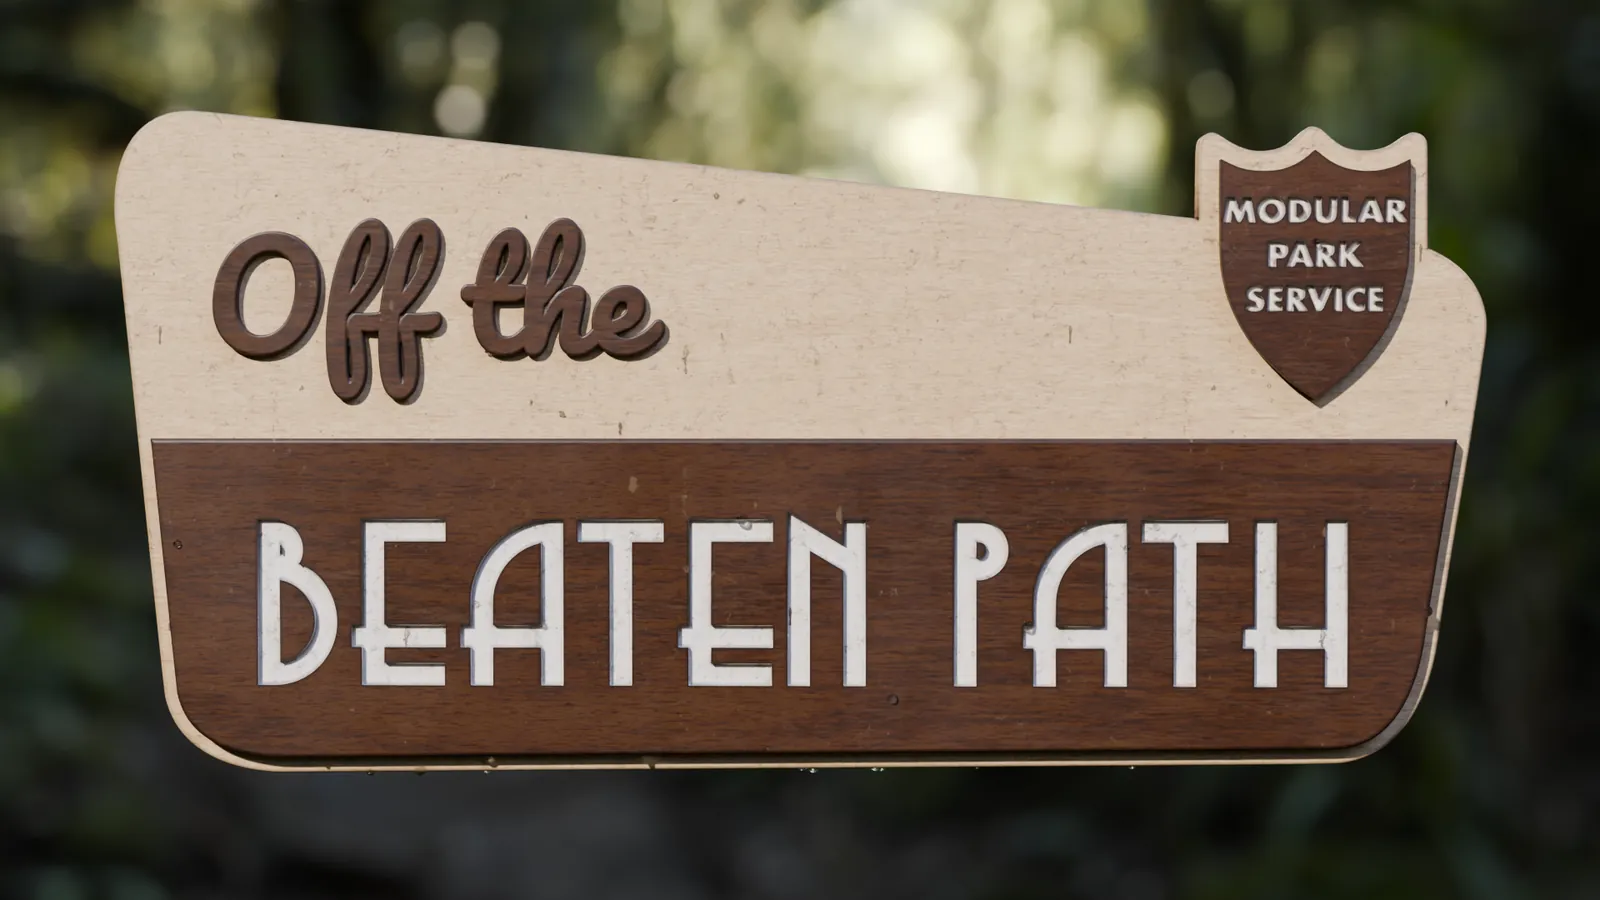
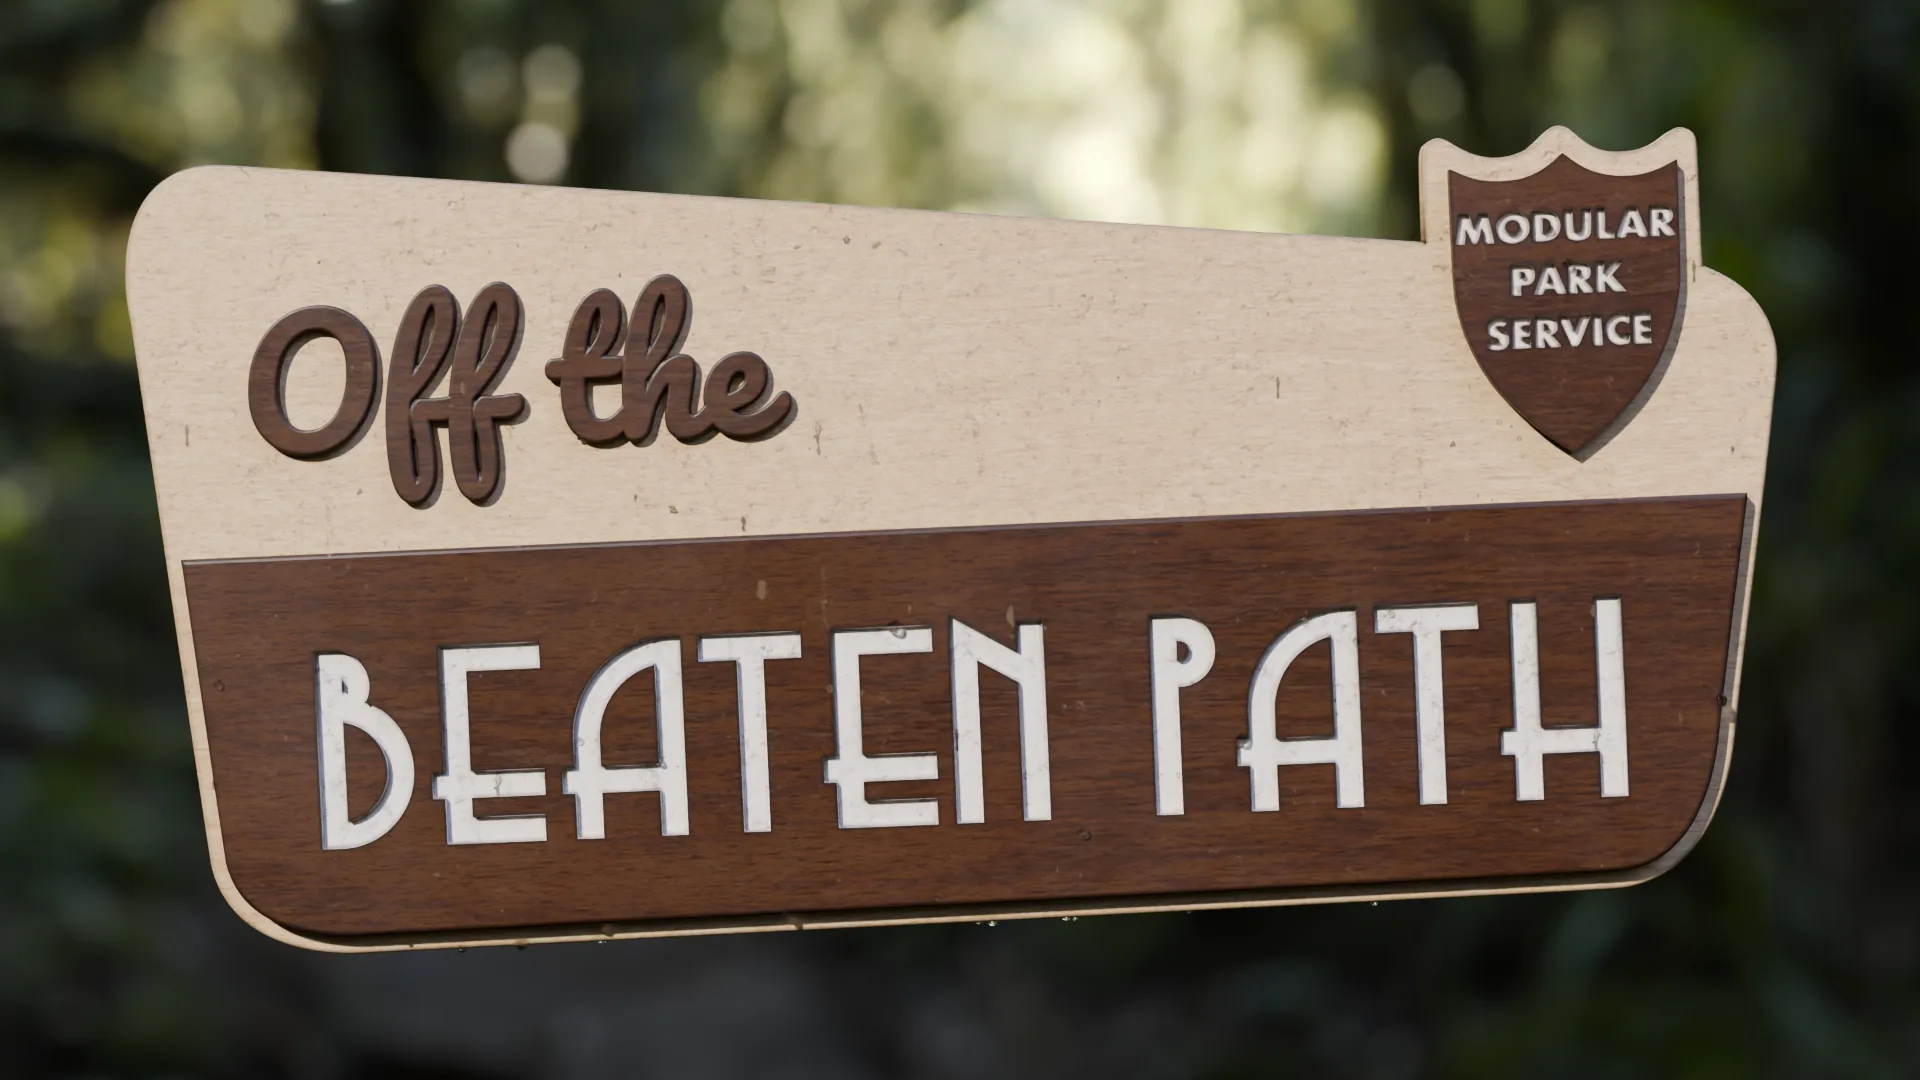
MPS: enable 48-frame Blender sweep (+/-3 deg, 1920px WebP)

diff --git a/mps/index.html b/mps/index.html
@@ -3,7 +3,7 @@ layout: mps
 title: Modular Park Service
 description: Modules for VCV Rack, named for the national parks.
 sitemap: false
-sweep_frames: 0   # set to the number of frames in assets/images/mps/sweep/ (f_0000.webp ...) to enable the Blender sweep
+sweep_frames: 48  # set to the number of frames in assets/images/mps/sweep/ (f_0000.webp ...) to enable the Blender sweep
 ---
 {% assign modules = site.mps | sort: "order" %}
 <section class="hero" data-sweep-frames="{{ page.sweep_frames | default: 0 }}" data-sweep-path="{{ '/assets/images/mps/sweep/' | relative_url }}">
